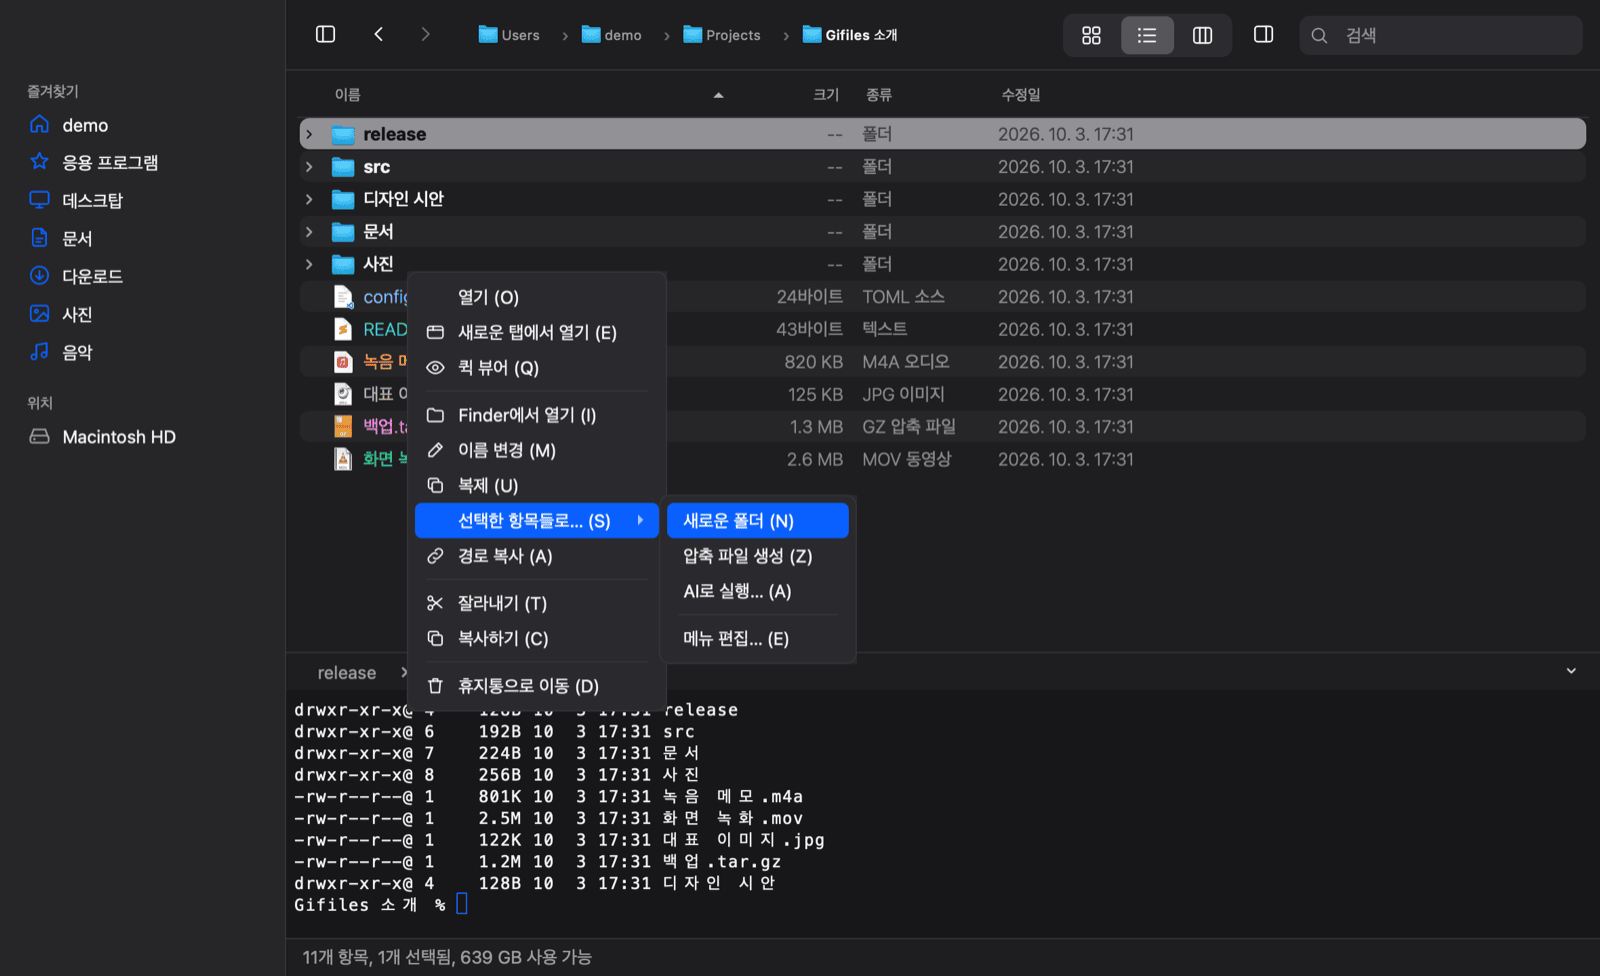
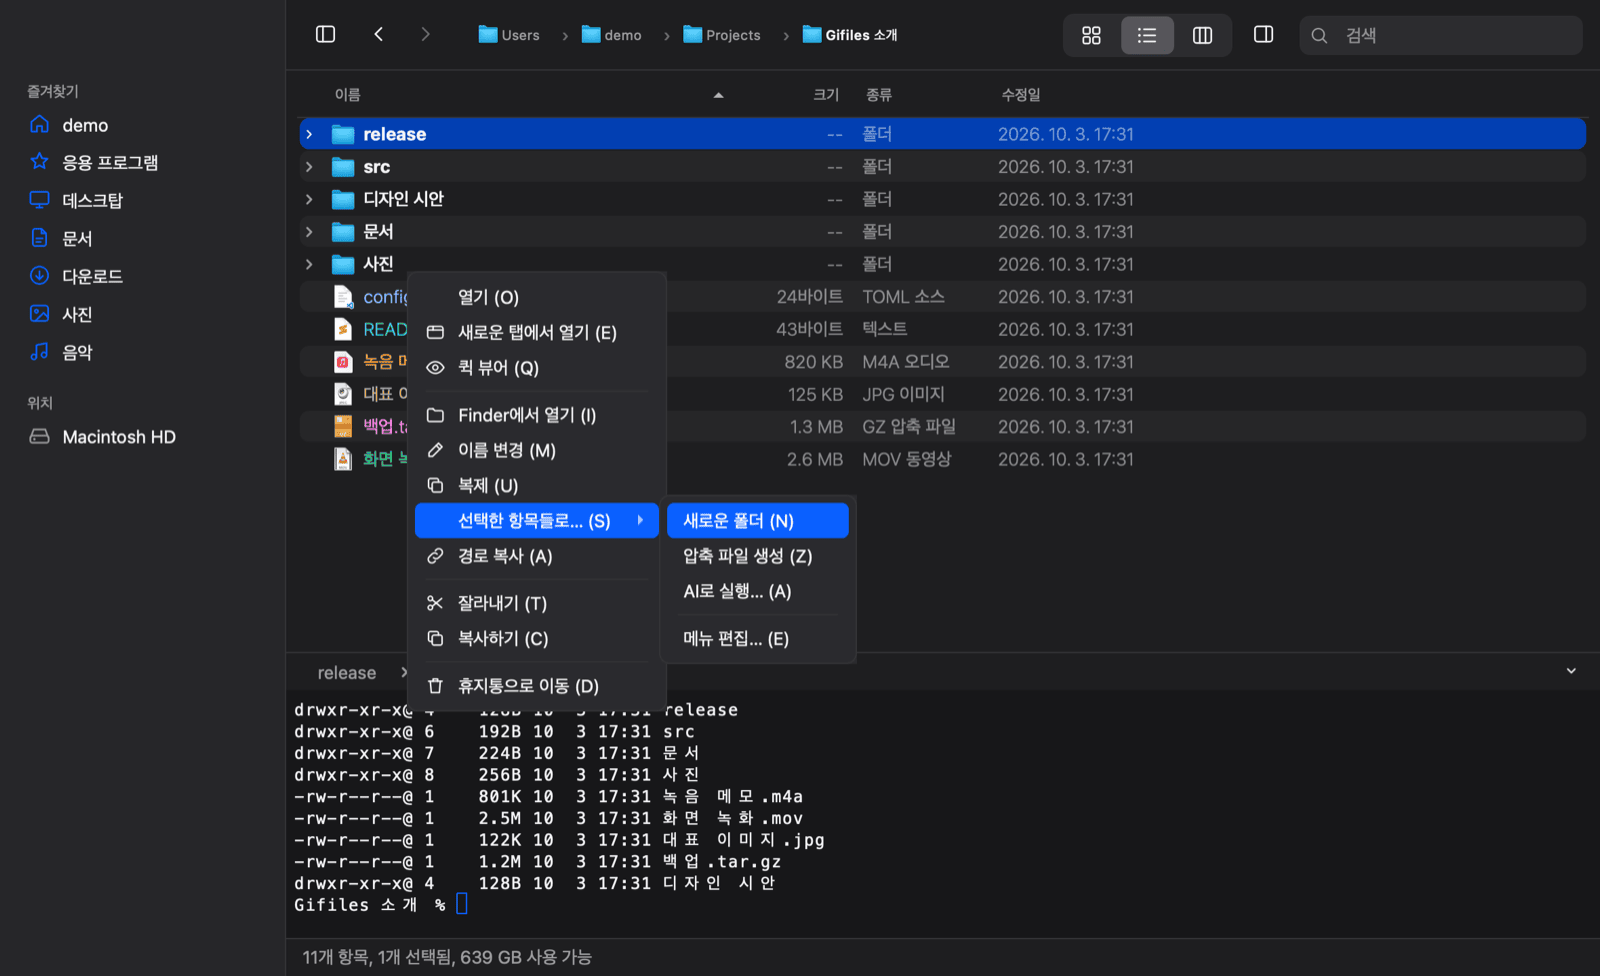
One accent bar for the selection; names keep their extension colors
- Theme::nameSelectionColor: the accent's hue, deep in dark mode (light names) and pale in light mode (dark names); used for every active selection unless file_colors.selection is on
- file_colors.selection (the item-color bar with black text) now defaults to false; its description and translations say what false does
- List, column and gallery draw selected names in their own colors on that bar; the list's folder chevron uses the text color
- Tests follow the new default and check the bar's pixels; screenshots re-shot

Changed region(s): [[0.1875, 0.123, 1.0, 0.1537]]

diff --git a/i18n/gifiles_en.ts b/i18n/gifiles_en.ts
@@ -1103,8 +1103,8 @@ Inside a string write &quot; as \&quot; and \ as \\.</translation>
         <translation>OK</translation>
     </message>
     <message>
-        <source>선택한 항목의 배경을 그 항목의 색으로 칠합니다 (Mdir의 선택 막대처럼, 글자는 검게). 색이 없는 항목은 밝은 회색. false면 강조색.</source>
-        <translation>Paints a selected item&apos;s background in that item&apos;s color (like Mdir&apos;s selection bar, with black text). Items without a color get light gray. false: the accent color.</translation>
+        <source>선택한 항목의 배경을 그 항목의 색으로 칠합니다 (Mdir의 선택 막대처럼, 글자는 검게). 색이 없는 항목은 회색. false면 강조색 막대 위에 이름 색을 그대로 둡니다.</source>
+        <translation>Paints a selected item&apos;s background in that item&apos;s color (like Mdir&apos;s selection bar, with black text). Items without a color get gray. false: an accent bar, with names keeping their colors.</translation>
     </message>
     <message>
         <source>폴더 이름 색 (굵게). &quot;#RRGGBB&quot;, 다크 모드 기준이고 라이트 모드에서는 더 어둡고 진하게 씁니다.

diff --git a/src/Settings.cpp b/src/Settings.cpp
@@ -126,8 +126,8 @@ const QList<Item> &items()
          Gifiles::tr("목록·갤러리·컬럼 보기에서 이름을 항상 대문자로 보여 줍니다. 보이는 모양만 바뀌고 실제 이름은 그대로입니다 (이름 변경 칸에는 실제 이름)."),
          {}},
 
-        {Settings::FileColorSelection, Type::Bool, true,
-         Gifiles::tr("선택한 항목의 배경을 그 항목의 색으로 칠합니다 (Mdir의 선택 막대처럼, 글자는 검게). 색이 없는 항목은 밝은 회색. false면 강조색.")},
+        {Settings::FileColorSelection, Type::Bool, false,
+         Gifiles::tr("선택한 항목의 배경을 그 항목의 색으로 칠합니다 (Mdir의 선택 막대처럼, 글자는 검게). 색이 없는 항목은 회색. false면 강조색 막대 위에 이름 색을 그대로 둡니다.")},
         {Settings::FolderColor, Type::Color, QString(),
          Gifiles::tr("폴더 이름 색 (굵게). \"#RRGGBB\", 다크 모드 기준이고 라이트 모드에서는 더 어둡고 진하게 씁니다.\n"
                         "빈 문자열이면 기본 글자색. Mdir의 폴더 색은 \"#CD6A51\" 입니다.")},
@@ -1035,7 +1035,10 @@ QWidget *shortcutsPage()
     l->setSpacing(10);
     auto *t = new QLabel(Gifiles::tr("단축키"), w);
     t->setObjectName(QStringLiteral("title"));
-    l->addWidget(t);
+    auto *head = new QHBoxLayout; // the title, and the small buttons for all shortcuts at its right
+    head->addWidget(t);
+    head->addStretch();
+    l->addLayout(head);
     l->addWidget(hint(Gifiles::tr("재지정을 누르고 새 키를 누른 뒤 확인하면 적용됩니다. "
                                      "다른 기능이 쓰던 키면 그 기능에서는 빠집니다. 굵게 표시된 키는 기본값에서 바꾼 것입니다.")));
     auto *tree = new QTreeWidget(w);
@@ -1100,19 +1103,18 @@ QWidget *shortcutsPage()
     QObject::connect(sc, &Shortcuts::changed, tree, refresh);
     l->addWidget(tree, 1);
     l->addWidget(status);
-    // For every shortcut at once, each asked once more.
-    auto *bottom = new QHBoxLayout;
+    // For every shortcut at once, each asked once more. Small and top right: at the bottom center
+    // they were taken for the window's OK button.
     auto *resetAll = new QPushButton(Gifiles::tr("초기화"), w);
     resetAll->setObjectName(QStringLiteral("shortcutsReset"));
+    resetAll->setProperty("small", true);
     resetAll->setToolTip(Gifiles::tr("모든 단축키를 기본값으로"));
     auto *clearAll = new QPushButton(Gifiles::tr("전부 제거"), w);
     clearAll->setObjectName(QStringLiteral("shortcutsClear"));
+    clearAll->setProperty("small", true);
     clearAll->setToolTip(Gifiles::tr("모든 메뉴 항목의 단축키를 지움"));
-    bottom->addStretch();
-    bottom->addWidget(resetAll);
-    bottom->addWidget(clearAll);
-    bottom->addStretch();
-    l->addLayout(bottom);
+    head->addWidget(resetAll);
+    head->addWidget(clearAll);
     auto ask = [w](const QString &q) {
         return QMessageBox::question(w->window(), Gifiles::tr("단축키"), q, QMessageBox::Yes | QMessageBox::Cancel,
                                      QMessageBox::Cancel) == QMessageBox::Yes;
@@ -1373,7 +1375,17 @@ QWidget *appearancePage(const std::function<QWidget *(QWidget *page)> &look)
     QFont sf = section->font();
     sf.setBold(true);
     section->setFont(sf);
-    l->addWidget(section);
+    // 초기화 sits small at the section's right (it resets the colors only, not the switches above);
+    // at the bottom center it was taken for the window's OK button.
+    auto *reset = new QPushButton(Gifiles::tr("초기화"), w);
+    reset->setObjectName(QStringLiteral("colorsReset"));
+    reset->setProperty("small", true);
+    reset->setToolTip(Gifiles::tr("폴더와 모든 확장자 색을 기본값으로"));
+    auto *sectionRow = new QHBoxLayout;
+    sectionRow->addWidget(section);
+    sectionRow->addStretch();
+    sectionRow->addWidget(reset);
+    l->addLayout(sectionRow);
     QLabel *about = hint(Gifiles::tr("목록·갤러리·컬럼에서 파일 이름을 확장자별로 칠할 색입니다. 왼쪽에 확장자를 쉼표로 이어 적고 "
                                      "오른쪽에 색을 고릅니다. 색은 다크 모드 기준이고, 라이트 모드에서는 더 어둡고 진하게 바뀝니다. "
                                      "한 확장자가 여러 줄에 있으면 위의 줄이 이깁니다."));
@@ -1565,14 +1577,6 @@ QWidget *appearancePage(const std::function<QWidget *(QWidget *page)> &look)
     buttons->addStretch();
     l->addLayout(buttons);
     // 초기화: back to the built-in colors, the folder's too, asked once more.
-    auto *bottom = new QHBoxLayout;
-    auto *reset = new QPushButton(Gifiles::tr("초기화"), w);
-    reset->setObjectName(QStringLiteral("colorsReset"));
-    reset->setToolTip(Gifiles::tr("폴더와 모든 확장자 색을 기본값으로"));
-    bottom->addStretch();
-    bottom->addWidget(reset);
-    bottom->addStretch();
-    l->addLayout(bottom);
     QObject::connect(reset, &QPushButton::clicked, w, [w] {
         if (QMessageBox::question(w->window(), Gifiles::tr("색상"),
                                   Gifiles::tr("폴더와 확장자 색을 모두 기본값으로 되돌릴까요? 직접 바꾼 색은 사라집니다."),

diff --git a/src/ItemDelegate.cpp b/src/ItemDelegate.cpp
@@ -129,8 +129,9 @@ QColor ItemDelegate::nameStyle(const QModelIndex &index, const QColor &plain, QF
 
 QColor ItemDelegate::selectionColor(const QModelIndex &index) const
 {
+    // Names keep their colors on one accent bar; or (file_colors.selection) the bar takes each item's color.
     if (!Settings::instance()->flag(Settings::FileColorSelection))
-        return {};
+        return Theme::colors().nameSelection;
     const QModelIndex name = index.siblingAtColumn(ColName);
     const QColor c = isFolder(name) ? Theme::folderBaseColor() : Theme::fileBaseColor(name.data().toString());
     return Theme::selectionFill(c.isValid() ? c : Theme::plainSelectionColor());
@@ -152,16 +153,19 @@ void ItemDelegate::paintItem(QPainter *p, const QStyleOptionViewItem &option, co
         text = nameStyle(index, text, &opt.font);
     else
         text.setAlphaF(0.5);
-    // Selected in an active view, in the item's own color: drawn as unselected text on that color
-    // (the list's pill is drawRow's; the column view's is painted here).
+    // Selected in an active view: drawn as unselected text on the selection bar (the list's pill is
+    // drawRow's; the column view's is painted here). Names keep their colors unless the bar is the
+    // item's own color, where the text is black.
     const bool sel = option.state & QStyle::State_Selected;
     const bool active = option.state & QStyle::State_Active;
     const QColor own = sel && active ? selectionColor(index) : QColor();
     if (own.isValid()) {
         opt.state &= ~(QStyle::State_Selected | QStyle::State_MouseOver);
-        text = Theme::selectionTextColor();
-        if (index.column() != ColName)
-            text.setAlphaF(0.65);
+        if (Settings::instance()->flag(Settings::FileColorSelection)) {
+            text = Theme::selectionTextColor();
+            if (index.column() != ColName)
+                text.setAlphaF(0.65);
+        }
         if (m_kind == Column) {
             QPainterPath pill;
             pill.addRoundedRect(QRectF(option.rect), 7, 7);
@@ -175,7 +179,9 @@ void ItemDelegate::paintItem(QPainter *p, const QStyleOptionViewItem &option, co
     QStyledItemDelegate::paint(p, opt, index);
     if (m_kind == Column && index.column() == ColName && m_proxy->isDir(index) &&
         !util::isPackage(QFileInfo(m_proxy->filePath(index)))) {
-        const QColor col = own.isValid() ? Theme::selectionTextColor() : sel && active ? Theme::colors().selText : Theme::colors().secondary;
+        const QColor col = !own.isValid() ? Theme::colors().secondary
+                           : Settings::instance()->flag(Settings::FileColorSelection) ? Theme::selectionTextColor()
+                                                                                       : Theme::colors().text;
         const QRect r(option.rect.right() - 20, option.rect.center().y() - 7, 14, 14);
         Theme::icon(QStringLiteral("chevron-right-small"), col, 14).paint(p, r);
     }
@@ -233,7 +239,7 @@ void ItemDelegate::paintTile(QPainter *p, const QStyleOptionViewItem &opt, const
             pill.addRoundedRect(QRectF(lr), 4, 4);
             p->fillPath(pill, !active ? c.selInactive : own.isValid() ? own : c.selection);
         }
-        p->setPen(selected && active ? (own.isValid() ? Theme::selectionTextColor() : c.selText) : nameColor);
+        p->setPen(own.isValid() && Settings::instance()->flag(Settings::FileColorSelection) ? Theme::selectionTextColor() : nameColor);
         p->drawText(lr, Qt::AlignCenter, line);
         y += fm.height() + 2;
     }

diff --git a/tests/smoke.cpp b/tests/smoke.cpp
@@ -635,7 +635,7 @@ private slots:
             QDir(p("parity")).removeRecursively();
         });
         Settings::instance()->setValue(Settings::ThemeMode, QStringLiteral("dark"));
-        Settings::instance()->setValue(Settings::FileColorSelection, false); // the accent pill (item colors: namesBoldAndUppercaseOptions)
+        Settings::instance()->setValue(Settings::FileColorSelection, false); // the shared bar (item colors: namesBoldAndUppercaseOptions)
         auto *tree = qobject_cast<QTreeView *>(tab()->view());
         QVERIFY(tree);
         // Not a QTemporaryDir in the system temp folder: a late listing of that busy folder could drop
@@ -666,7 +666,7 @@ private slots:
                 const QRect cell = tree->visualRect(QModelIndex(idx).siblingAtColumn(column));
                 const QPoint sample(cell.center().x(), cell.bottom() - 2);
                 const QColor actual = image.pixelColor(qRound(sample.x() * dpr), qRound(sample.y() * dpr));
-                QCOMPARE(actual.rgba(), Theme::colors().selection.rgba());
+                QCOMPARE(actual.rgba(), Theme::colors().nameSelection.rgba());
             }
         }
         tree->selectionModel()->select(first, QItemSelectionModel::Select | QItemSelectionModel::Rows);
@@ -1486,8 +1486,10 @@ private slots:
         QCOMPARE(peek.text(idx), QStringLiteral("README.TXT"));
         QCOMPARE(idx.data().toString(), QStringLiteral("readme.txt")); // the name itself is untouched
         QVERIFY(editorBold()); // the editor matches the bold row, so nothing moves when renaming starts
-        // A selected item's background is its own color (as given, either theme), dimmed to 80% of
-        // its lightness; off → the accent.
+        // By default selected names keep their colors on one accent bar; with file_colors.selection the
+        // bar is the item's own color (as given, either theme) dimmed to 80% of its lightness.
+        QCOMPARE(peek.selectionColor(idx), Theme::colors().nameSelection);
+        st->setValue(Settings::FileColorSelection, true);
         QCOMPARE(peek.selectionColor(idx), Theme::selectionFill(Theme::fileBaseColor(QStringLiteral("readme.txt"))));
         QVERIFY(peek.selectionColor(idx).isValid());
         QFile plain(dir.filePath(QStringLiteral("Makefile")));
@@ -1496,7 +1498,7 @@ private slots:
         QTRY_VERIFY(proxy->indexForPath(plain.fileName()).isValid());
         QCOMPARE(peek.selectionColor(proxy->indexForPath(plain.fileName())), Theme::selectionFill(Theme::plainSelectionColor())); // no color: gray
         st->setValue(Settings::FileColorSelection, false);
-        QVERIFY(!peek.selectionColor(idx).isValid());
+        QCOMPARE(peek.selectionColor(idx), Theme::colors().nameSelection);
         st->remove(Settings::FileColorSelection);
     }
 

diff --git a/src/Theme.cpp b/src/Theme.cpp
@@ -259,6 +259,7 @@ QPushButton { background: {inputBg}; border: none; border-radius: 7px; padding: 
 QPushButton:hover { background: {selInactive}; }
 QPushButton:default, QPushButton#primary { background: {accent}; color: {selText}; }
 QPushButton#primary:hover { background: {accent}; }
+QPushButton[small="true"] { padding: 2px 10px; min-width: 0; border-radius: 5px; font-size: 11px; }
 QLineEdit { background: {inputBg}; border: 1px solid transparent; border-radius: 6px; padding: 4px 6px; selection-background-color: {accent}; }
 QLineEdit:focus { border: 1px solid {accent}; }
 QLineEdit#renameEdit { padding: 0; border-radius: 4px; }
@@ -381,6 +382,7 @@ void Theme::apply()
 #endif
 #endif
     c.selText = QColor(Qt::white);
+    c.nameSelection = nameSelectionColor(c.accent, dark);
     if (dark) {
         c.bg = QColor(0x1E, 0x1E, 0x20);
         c.sidebarBg = QColor(0x26, 0x26, 0x29);
@@ -617,6 +619,22 @@ QColor Theme::selectionFill(const QColor &color)
     bool fits = false;
     auto rgb = fromOkLch(o, &fits);
     for (int i = 0; i < 24 && !fits; ++i) { // darker can leave the gamut for vivid hues: ease chroma
+        o.c *= 0.95;
+        rgb = fromOkLch(o, &fits);
+    }
+    return QColor::fromRgbF(float(fromLinear(qBound(0.0, rgb[0], 1.0))), float(fromLinear(qBound(0.0, rgb[1], 1.0))),
+                            float(fromLinear(qBound(0.0, rgb[2], 1.0))));
+}
+
+QColor Theme::nameSelectionColor(const QColor &accent, bool dark)
+{
+    OkLch o = toOkLch(accent);
+    o.l = dark ? 0.42 : 0.88;
+    if (!dark)
+        o.c *= 0.35;
+    bool fits = false;
+    auto rgb = fromOkLch(o, &fits);
+    for (int i = 0; i < 40 && !fits; ++i) {
         o.c *= 0.95;
         rgb = fromOkLch(o, &fits);
     }

diff --git a/src/BrowserTab.cpp b/src/BrowserTab.cpp
@@ -98,8 +98,8 @@ protected:
         QTreeView::drawRow(p, opt, index);
     }
 
-    // A folder row selected in its own (light) color: the style's white "selected" chevron would vanish
-    // on it, so the chevron is drawn here in the selection's black.
+    // A selected folder row: the style's white "selected" chevron would vanish on a light bar, so the
+    // chevron is drawn here, black on the item's own color or in the text color on the shared bar.
     void drawBranches(QPainter *p, const QRect &rect, const QModelIndex &index) const override
     {
         const auto *d = qobject_cast<ItemDelegate *>(itemDelegate());
@@ -112,7 +112,7 @@ protected:
             return;
         const QRect r(rect.right() - indentation() + 1, rect.top(), indentation(), rect.height());
         Theme::icon(isExpanded(index) ? QStringLiteral("chevron-down-small") : QStringLiteral("chevron-right-small"),
-                    Theme::selectionTextColor(), 16)
+                    Settings::instance()->flag(Settings::FileColorSelection) ? Theme::selectionTextColor() : Theme::colors().text, 16)
             .paint(p, r);
     }
 

diff --git a/src/Theme.h b/src/Theme.h
@@ -19,7 +19,7 @@ public:
 
     struct Colors {
         bool dark;
-        QColor bg, sidebarBg, text, secondary, tertiary, separator, accent, selection, selText, selInactive,
+        QColor bg, sidebarBg, text, secondary, tertiary, separator, accent, selection, nameSelection, selText, selInactive,
             hover, inputBg, segmentChecked, menuBg, scroll, scrollHover, tile, altRow, danger;
     };
 
@@ -47,6 +47,9 @@ public:
     // The selection bar's fill for an item color: the same hue at 80% of its perceived lightness,
     // so the bar doesn't glare and the black text on it reads well.
     static QColor selectionFill(const QColor &color);
+    // The one selection bar under names that keep their own colors: the accent's hue, deep in dark
+    // mode (names are light there) and pale in light mode (names are dark there).
+    static QColor nameSelectionColor(const QColor &accent, bool dark);
     static QColor selectionTextColor();
     // The color picker's live preview: these extensions (or folders) show `darkModeColor` until it's
     // called with an invalid color; repaints the file views.

diff --git a/docs/history.md b/docs/history.md
@@ -579,3 +579,18 @@ shortcuts in `../README.md`. Dates are 2026.
 - Landing page: features reordered (Finder, terminal, colors, Quick Look, AI, your menu) with the
   user's own wording, and every screenshot re-shot with the darker bar.
 
+## One accent bar, names keep their colors (2026-10-03)
+
+- Right after the 20% darker item-color bar, the user found the colored bars messy and asked for one
+  bar color with the names keeping their extension colors. Picked from three previews: the strong
+  accent. Dark-mode names are light, so the bar is the accent's hue deep (OKLab L 0.42); light-mode
+  names are dark (L 0.52), so it is the same hue pale (L 0.88, chroma ×0.35): `Theme::nameSelectionColor`,
+  `Colors::nameSelection`. `ItemDelegate::selectionColor` returns it unless `file_colors.selection`
+  is on, which now defaults to false (the item-color bar with black text stays as that option).
+  Text on the shared bar is the name's own color in list, column and gallery; the list's folder
+  chevron is drawn in the text color. Checked on real rendering in dark and light.
+- The user's own config.toml had `selection = true` written by an earlier save; it was commented out
+  so the new default applies.
+- Windows' `reloadKeepsPreviousValueOnError` failed once in CI (stripes still on after an external
+  edit) and passed on rerun: the reload-timing area the previous commit added retries for.
+
